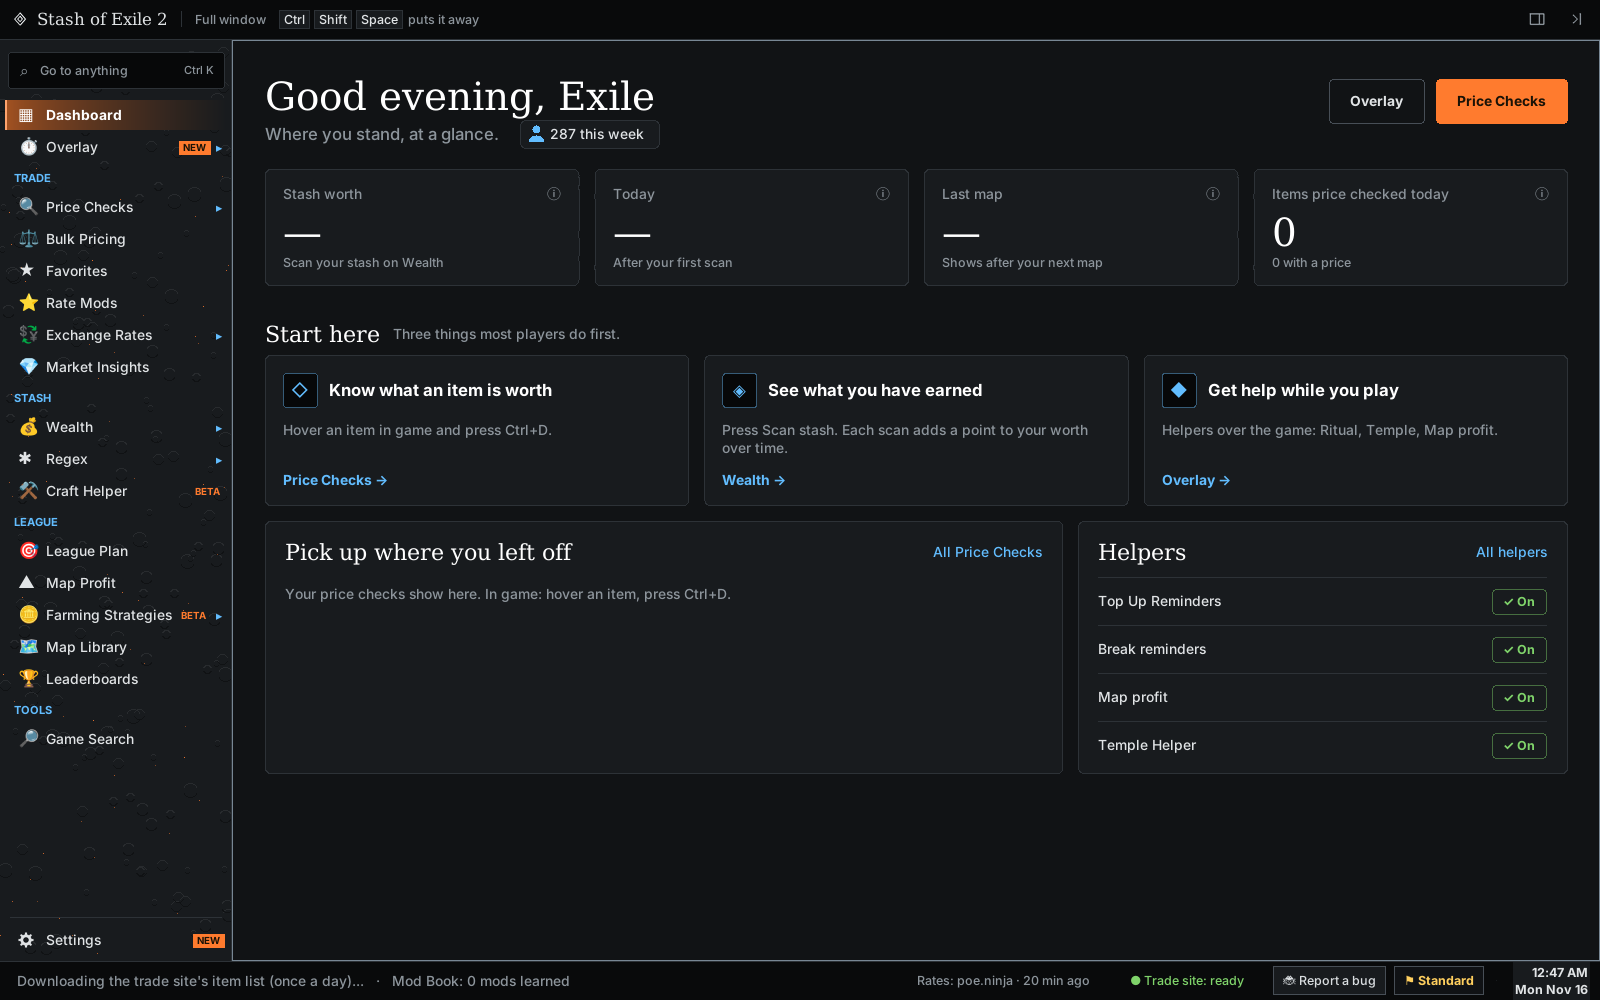
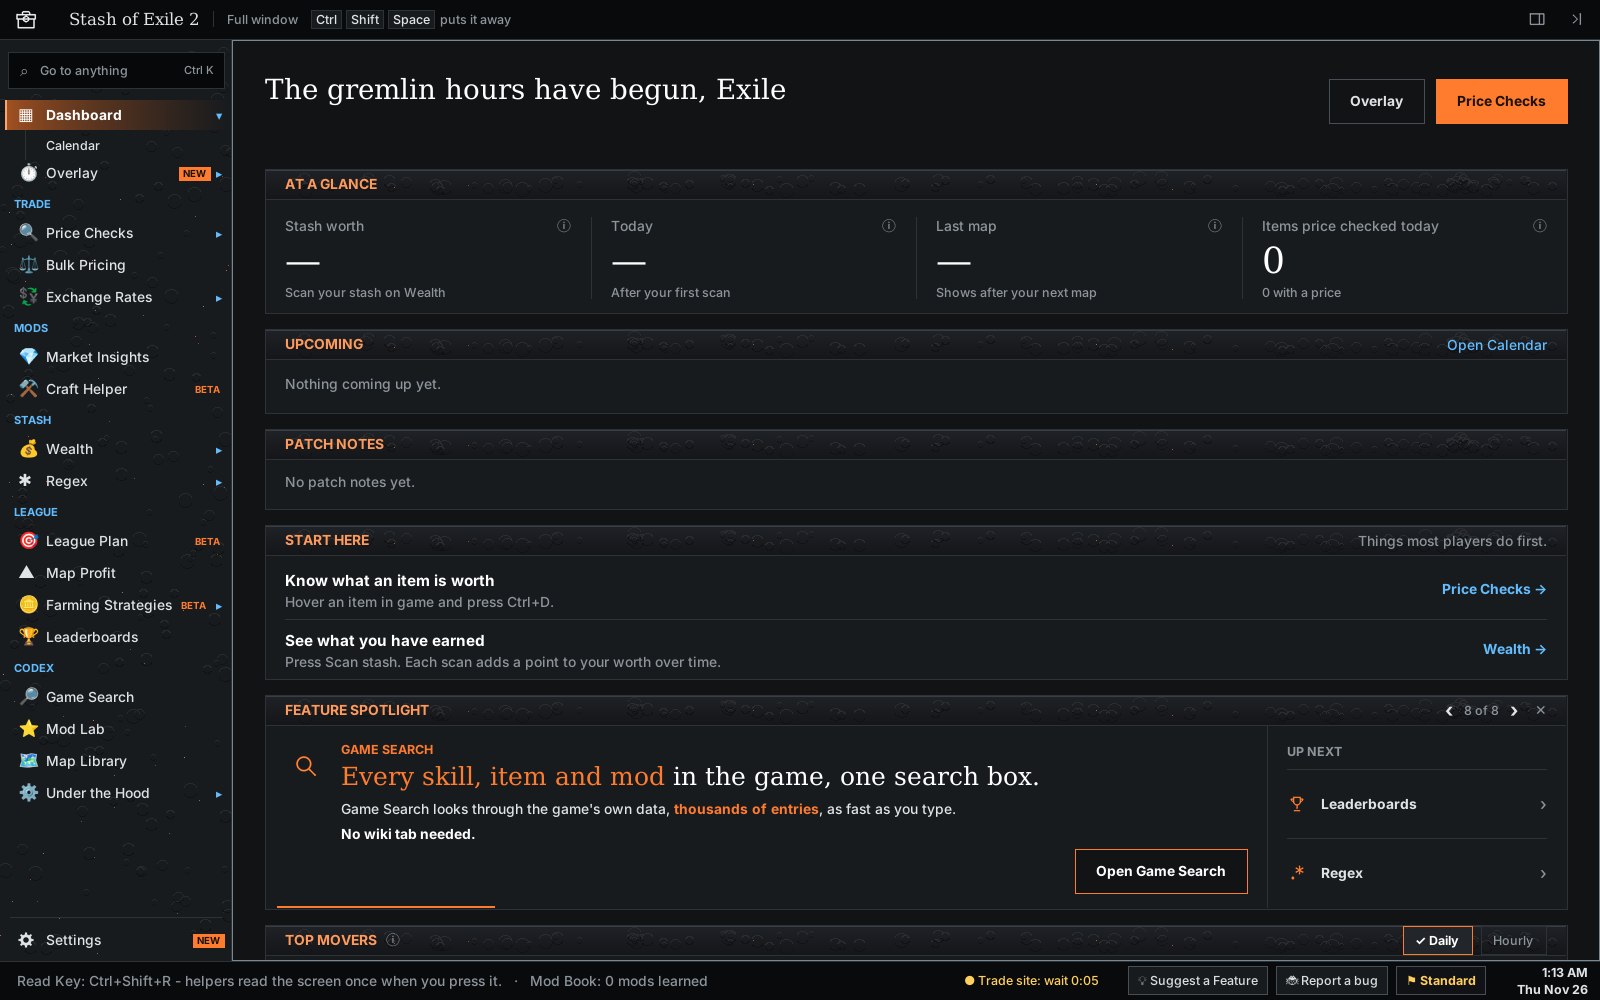
README in the new style: 3.3, Calendar, Patch Notes, Game Search, Mod Lab, game data that updates itself; new screenshots
Claude-Session: https://claude.ai/code/session_01TESTmzP9QPDqCbiiJ8gi3X

diff --git a/README.md b/README.md
@@ -2,40 +2,37 @@
 
 *One tool to rule them all.*
 
-> **GGG ToS safety check - read first.** One key press = one action · nothing plays the game for you · never touches the game's memory, code or traffic · reads Client.txt, the trade site and poe.ninja, and your clipboard or screen only once per key press. Every change must pass [TOS.md](TOS.md).
+> **GGG ToS safety check.** One key press is one action. Nothing plays the game for you. The app never touches the game's memory, code or traffic. It reads Client.txt, the trade site and poe.ninja, and reads your clipboard or screen only once per key press. Every change must pass [TOS.md](TOS.md).
 
-A free, open-source Windows companion for **Path of Exile 2**: price checks, bulk pricing, exchange rates, helpers over the game and league planning. Written by Claude (an AI by Anthropic), directed and tested by a human player.
+StashOfExile2 is a free, open-source Windows and Linux companion for **Path of Exile 2**: price checks, bulk pricing, exchange rates, helpers over the game, league planning and a searchable copy of the game's data. Claude, an AI by Anthropic, writes the code; a human player directs and tests it.
 
 ![Full window: the Dashboard](docs/screenshots/full-window.png)
 
-| The Drawer (one monitor) | The Overlay over the game |
+| Game Search | Mod Lab |
+|---|---|
+| ![Game Search: every unique, mod and keyword from the game's data](docs/screenshots/game-search.png) | ![Mod Lab: rate mods by base, like Abyss Tablet or Ruby](docs/screenshots/mod-lab.png) |
+
+| The Drawer, for one monitor | The Overlay over the game |
 |---|---|
 | ![The Drawer over the game's side, on Exchange Rates](docs/screenshots/drawer.png) | ![The overlay: the Bar, Notes, a price check card and Music Controls](docs/screenshots/overlay.png) |
 
-*Screenshots: sample data and made-up listings.*
+*Screenshots use sample data and made-up listings.*
 
-## New in 3.2
+## New in 3.3
 
-- **Suggest a Feature** - next to Report a bug.
-- **Report a bug** can add your screen setup.
-- **Mod Lab** - item pictures and a Next button.
-- **Map Profit and Top Up** find your inventory on more setups.
+- **Calendar** - leagues, Twitch Drops, events and races from Steam news, plus your own reminders. The next one shows on the Dashboard and over the game.
+- **Patch Notes** on the Dashboard, from GGG's forum and Steam.
+- **Game Search** - every unique's lines are searchable, with their older versions, every league has its game version, and **Changed in 1.0** lists what a patch changed.
+- **Mod Lab** - every mod says its kind: Prefix, Suffix, Implicit, Corrupted and more. Groups are the bases, like Abyss Tablet, Ruby or Vase Relic.
+- **Report a Problem** on Codex pages: flag a wrong line for review.
+- **Game data updates itself.** After a patch, the app downloads the new data files once a day. No new release needed.
+- **Keybinds** use short names, and **Ctrl+Shift+N** opens poe.ninja.
 
-## New in 3.1
-
-- **Made to follow GGG's rules** - the app searches the trade site only when you press a button, no longer reads your stash tabs or keeps an account name, and shows you the steps for the Ritual filter instead of changing game files. The overlay carries a STASH OF EXILE 2 badge, so it never looks like part of the game.
-- **Farming Strategies: New strat** - build your own strategy. Copy your waystone and tablets in from the game, or set them by hand with Min and Max values. Check cost prices it when you ask.
-- **Exchange Rates overlay** - pick up to 10 currencies, drag them into your order, and choose which currency the rates are shown in.
-- **Compare a currency** - pick one currency and see what it's worth in every other, with how each number was worked out.
-- **Mod Lab** - its own Mods section, rating One at a Time or in a Table.
-- **Vaal Lens** - a full step-by-step plan for your temple.
-- **One installer** - it asks first: Full Install or Portable.
-
-A small **NEW** chip marks what's new on its row and on its page's icon, until you open or use it.
+A **NEW** chip marks what's new on its row and on its page's icon until you open or use it.
 
 ## Third-party policy
 
-GGG's rule for tools: *"Reading from the screen or clipboard may only be performed once per manual key press."* The app follows it at its strictest - only a key you press for the read, never a timer, a click, a file change or the app starting.
+GGG's rule for tools: *"Reading from the screen or clipboard may only be performed once per manual key press."* The app follows it at its strictest: only a key you press starts a read. A timer, a click, a file change or the app starting never does.
 
 - **One read per key press.** Holding a key reads once. Each read shows the read mark (👁) for a second and writes a line in the app's log.
 - **Your screen: only on the Read Key.** **Ctrl+Shift+R** as the app comes (Settings › Keybinds). One picture of the game window; every helper that applies where you are reads its part, then it's dropped. Clear the key and nothing reads the screen.
@@ -46,7 +43,7 @@ GGG's rule for tools: *"Reading from the screen or clipboard may only be perform
 - The trade site is searched only for what you started, well inside its limits, with a User-Agent that says who is asking. Rates come from poe.ninja.
 - **No game art ships with the app.** Item pictures load from poe.ninja and the trade site when needed and stay only on your PC.
 - The full list of every read and its trigger: [TOS.md](TOS.md).
-- **Older versions are gone.** Every release before 3.0.0 was removed from GitHub, because those versions read the screen by themselves. Please don't use them with the game. Details: [docs/REMOVED_VERSIONS.md](docs/REMOVED_VERSIONS.md).
+- **Older versions are gone.** Every release before 3.0.0 was removed from GitHub, because those versions read the screen by themselves. Don't use them with the game. Details: [docs/REMOVED_VERSIONS.md](docs/REMOVED_VERSIONS.md).
 
 This product isn't affiliated with or endorsed by Grinding Gear Games in any way.
 
@@ -58,7 +55,7 @@ This product isn't affiliated with or endorsed by Grinding Gear Games in any way
 - **Favorites**, **Exchange Rates** - poe.ninja rates, a converter, and Compare a currency. Pick which ones show over the game.
 
 **Mods**
-- **Mod Lab** - rate mods One at a Time or in a Table; your ratings tune your price checks. A mod that rolls in tiers can have a letter for its top, middle and low rolls (By roll).
+- **Mod Lab** - rate mods One at a Time or in a Table. Your ratings tune your price checks. A mod that rolls in tiers can have a letter for its top, middle and low rolls.
 - **Market Insights** - your most valuable items and the priciest listings seen.
 - **Craft Helper** (BETA) - each mod of a tablet or jewel rated S to F, and a next step.
 
@@ -67,10 +64,13 @@ This product isn't affiliated with or endorsed by Grinding Gear Games in any way
 - **Regex** - stash search strings for tablets, waystones, relics, jewels and gear.
 
 **League**
-- **League Plan**, **Map Profit** (BETA), **Farming Strategies** (BETA), **Map Library**, **Leaderboards** (opt-in).
+- **League Plan**, **Map Profit** BETA, **Farming Strategies** BETA and **Leaderboards**, which you opt in to.
+- **Calendar** and **Patch Notes** on the Dashboard.
 
-**Tools**
-- **Game Search** - every skill, item, mod and keyword, from the game's own data, on your PC.
+**Codex**
+- **Game Search** - every skill, item, unique, mod and keyword, from the game's own data, on your PC.
+- **Mod Lab** - every item mod by base, with its kind.
+- **Map Library** - every map ranked from S to Avoid.
 
 **Overlay** (over the game: Bar, Panel or Split layout, in any style)
 - **Session timer**, Notes, Calc, Regex and Rates menus, the **Price check overlay**.
@@ -90,7 +90,7 @@ Download `Setup-StashOfExile2-<version>.exe` from the [latest release](https://g
 - **Full Install** - puts it in your Start menu and Windows search, and in Settings › Apps to uninstall. Your settings live in `%APPDATA%\StashOfExile2`
 - **Portable** - one folder you pick. Nothing else on your PC changes. A new player's settings live in that folder too; if you already use the app, your settings stay where they are.
 
-Both install for you only, so no admin prompt, and both can update themselves if enabled (off by default).
+Both install for you only, so there's no admin prompt. Both can update themselves; this is off until you turn it on. Game data updates on its own once a day.
 
 The project moved to [github.com/StashOfExile/StashOfExile2](https://github.com/StashOfExile/StashOfExile2). If your 2.x app doesn't offer 3.0 by itself, download it once from Releases - it updates itself from then on, and your settings are kept.
 
@@ -98,16 +98,16 @@ Each release lists the SHA-256 of every download and a VirusTotal scan of the ex
 
 ### Windows SmartScreen and VirusTotal
 
-**Windows SmartScreen** may say "Windows protected your PC" the first time you run a new version. That happens because the app isn't signed with a paid code-signing certificate, and every new version starts with no download history. Press **More info**, then **Run anyway**.
+**Windows SmartScreen** may say "Windows protected your PC" the first time you run a new version, because the app isn't signed with a paid code-signing certificate and each new version starts with no download history. To run it, press **More info**, then **Run anyway**.
 
-**VirusTotal** usually shows one or two engines out of about 70 flagging the exe, with generic names like `W32.Malware`. These are false positives. Here is where they come from:
+**VirusTotal** usually shows one or two of about 70 engines flagging the exe, with generic names like `W32.Malware`. These are false positives:
 
 - **PyInstaller.** The app is written in Python and packed into one exe with PyInstaller. Some malware uses the same packer, so a few engines flag anything packed with it. VirusTotal's own PyInstaller rule says this alone doesn't mean a file is malicious.
 - **The tags** `overlay`, `obfuscated`, `detect-debug-environment` and `calls-wmi` describe how PyInstaller and Python work: the code is stored as a compressed archive at the end of the exe, and Python asks Windows which version it's running on.
 - **`checks-user-input`** is the Read Key and the other hotkeys you set. The app waits for your key press, then reads.
 - **Cloudflare `workers.dev`** is where Leaderboards, Farming Strategies posts and Community data sharing live. It's an info-level note, not a warning.
 
-Don't just take our word for it:
+To check it yourself:
 
 - Compare the exe's SHA-256 with the one on the release page.
 - Read the code. Everything the exe runs is in this repo.
@@ -127,27 +127,25 @@ Every release has a Linux download on the same page: `StashOfExile2-<version>-li
 
 ## Privacy
 
-- Everything is opt-in, never opt-out: you control what you share. It's never shared anywhere else or sold to anyone. It's stored on the app's community server on Cloudflare, which never keeps your internet address. Bug reports and feature ideas you send become public GitHub issues.
-- The usage count (off until you switch it on, Settings › Privacy & community): a random id made on your PC, every 10 minutes, so we know how many people use the app. Not your account, name or PC.
-- Nothing else leaves your PC unless you turn on Community data sharing - and then only anonymous data that helps improve the app's price checks, map ranks and campaign guide. Never your account or character names, personal information or anything about your currency or wealth. Leaderboard times show under the community name you pick.
-- Error reports: off until you turn them on. They only show where in the code an error happened and its type - never messages, names, items or files.
-- Logs (`app_log.txt`, `crash_report.txt`) stay on your PC and leave out your names and folders. You see every word before a bug report is sent. A bug report can add your screen setup: screen size, scaling, HDR and the game window's mode, from Windows, never from the game.
+- Everything is opt-in. Nothing is shared anywhere else or sold. Shared data lives on the app's community server on Cloudflare, which never keeps your internet address. Bug reports and feature ideas you send become public GitHub issues.
+- **Count me as a user** is off until you turn it on, on the Dashboard or in Settings › Privacy & community. It sends a random id made on your PC every 10 minutes, so we know how many people use the app. It never sends your account, name or PC details.
+- Nothing else leaves your PC unless you turn on Community data sharing, and then only anonymous data for price checks, map ranks and the campaign guide. Never your account or character names, personal information or anything about your currency or wealth. Leaderboard times show under the community name you pick.
+- Error reports are off until you turn them on. They send where in the code an error happened and its type, never messages, names, items or files.
+- Logs, `app_log.txt` and `crash_report.txt`, stay on your PC and leave out your names and folders. You see every word before a bug report is sent. A bug report can add your screen setup: screen size, scaling, HDR and the game window's mode, from Windows, never from the game.
 - Settings › Privacy & community › Leave and delete my data removes everything of yours from the community board.
 
 ## Community
 
-Questions and bug reports: [Discord](https://discord.gg/8dwn9kaGNr). Plans: [ROADMAP.md](ROADMAP.md).
+Questions and bug reports: [Discord](https://discord.gg/8dwn9kaGNr). Plans: [ROADMAP.md](ROADMAP.md). Bugs and ideas also go in through **Report a bug** and **Suggest a Feature** in the app.
 
 ## Credits
-
-Thank you!
 
 - **[RePoE](https://github.com/repoe-fork/repoe-fork)** (repoe-fork): the game data behind the mod lists, Regex, Game Search and tiers, exported from Path of Exile 2's own files.
 - **[poe.ninja](https://github.com/rasmuskl)** (rasmuskl): the economy data behind Exchange Rates, the rates window over the game, the Remnant prices and currency values.
 - **[Exiled Exchange 2](https://github.com/Kvan7/Exiled-Exchange-2)** (Kvan7, MIT): general ideas, and the base types, mod wordings, trade-site stat ids and pseudo-total rules in `gamedata.json`, from its data files under its license; and the ideas (2.113.0) of counting each seller once and keeping a mod's Min within its tier, written our own way.
 - **[Sidekick](https://github.com/Sidekick-Poe/Sidekick)**: general ideas. None of its code is used.
 - **[hypr-exiled](https://github.com/gfsd3v/hypr-exiled)** (gfsd3v): the idea for the Trade Whisper Watcher, built from scratch here; none of its code is used.
-- **[Path of Building PoE2](https://github.com/PathOfBuildingCommunity/PathOfBuilding-PoE2)**: the anoint recipes.
+- **[Path of Building PoE2](https://github.com/PathOfBuildingCommunity/PathOfBuilding-PoE2)** (MIT): the anoint recipes, and every unique's lines and older versions in `uniquedata.json` and `snapshots/`.
 - **[poe2pricer](https://github.com/saxe78/poe2pricer)** (saxe78): the idea for Favours prices (finding the Ritual window by a piece of its own art, its rewards by their pictures). Written from scratch here; none of its code is used.
 - **gruvbox** by Pavel Pertsev (morhetz), MIT: the colors of the Gruvbox Dark and Gruvbox Light themes ([github](https://github.com/morhetz/gruvbox)).
 - **Catppuccin** by the Catppuccin team, MIT: the colors of the Catppuccin Mocha and Catppuccin Latte themes ([github](https://github.com/catppuccin/catppuccin)).
@@ -167,6 +165,6 @@ Thank you!
 
 The code is free software under the **GNU Affero General Public License v3.0** ([LICENSE](LICENSE)): you can use it, change it and share it. Anything made from it has to stay under the same license, with its source - and that includes a changed version people use over a network (a website or an online service), not only one you hand out. Versions up to 2.129.4 were released under the GNU GPL v3.0.
 
-Game data in `regexdata.json`, `searchdata.json`, `modlists.json` and `tierdata.json` comes from [RePoE](https://github.com/repoe-fork/repoe-fork); `gamedata.json` (base types, mod wordings, trade-site stat ids, pseudo-total rules) is built from [Exiled Exchange 2](https://github.com/Kvan7/Exiled-Exchange-2)'s data files (MIT) (anoint recipes in `anointdata.json`: [Path of Building PoE2](https://github.com/PathOfBuildingCommunity/PathOfBuilding-PoE2)) and belongs to Grinding Gear Games; it isn't covered by this license. Other sources and their licenses are in [THIRD_PARTY_NOTICES.txt](THIRD_PARTY_NOTICES.txt).
+Game data in `regexdata.json`, `searchdata.json`, `modlists.json`, `tierdata.json` and `snapshots/` comes from [RePoE](https://github.com/repoe-fork/repoe-fork); `gamedata.json` (base types, mod wordings, trade-site stat ids, pseudo-total rules) is built from [Exiled Exchange 2](https://github.com/Kvan7/Exiled-Exchange-2)'s data files (MIT) (anoint recipes in `anointdata.json`: [Path of Building PoE2](https://github.com/PathOfBuildingCommunity/PathOfBuilding-PoE2)) and belongs to Grinding Gear Games; it isn't covered by this license. Other sources and their licenses are in [THIRD_PARTY_NOTICES.txt](THIRD_PARTY_NOTICES.txt).
 
 This product isn't affiliated with or endorsed by Grinding Gear Games in any way. Path of Exile 2 is a trademark of Grinding Gear Games.
